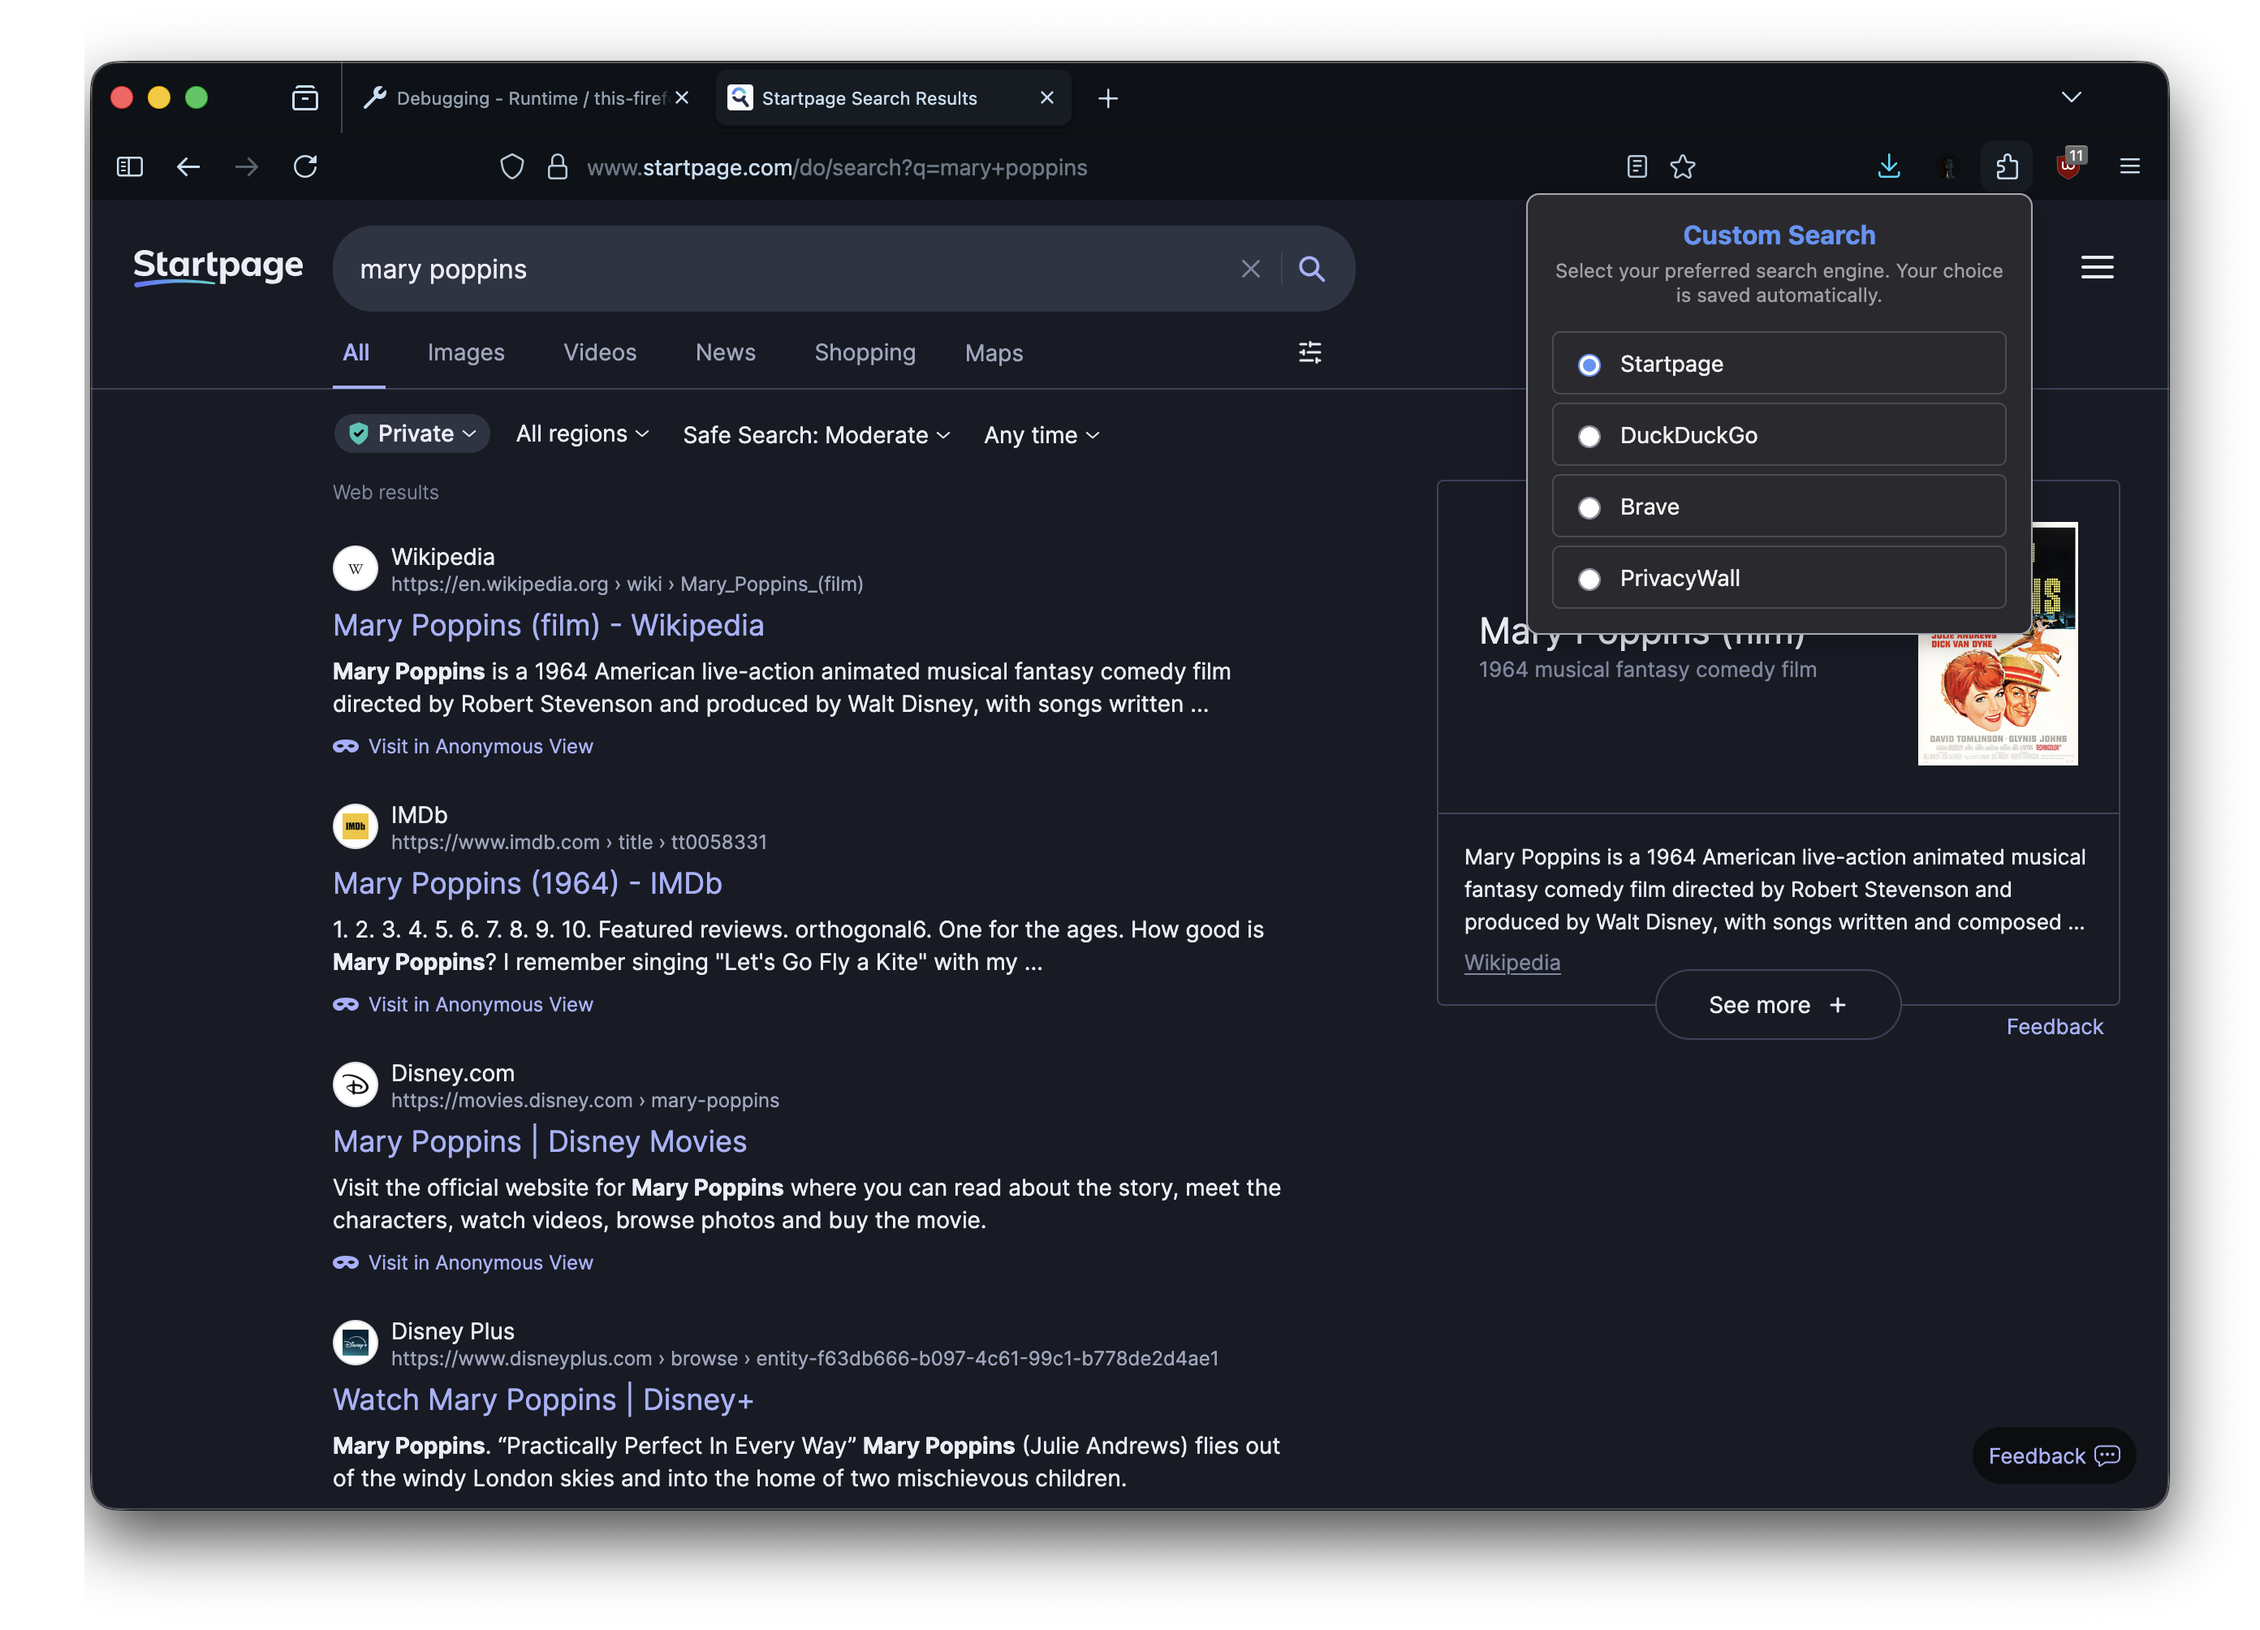
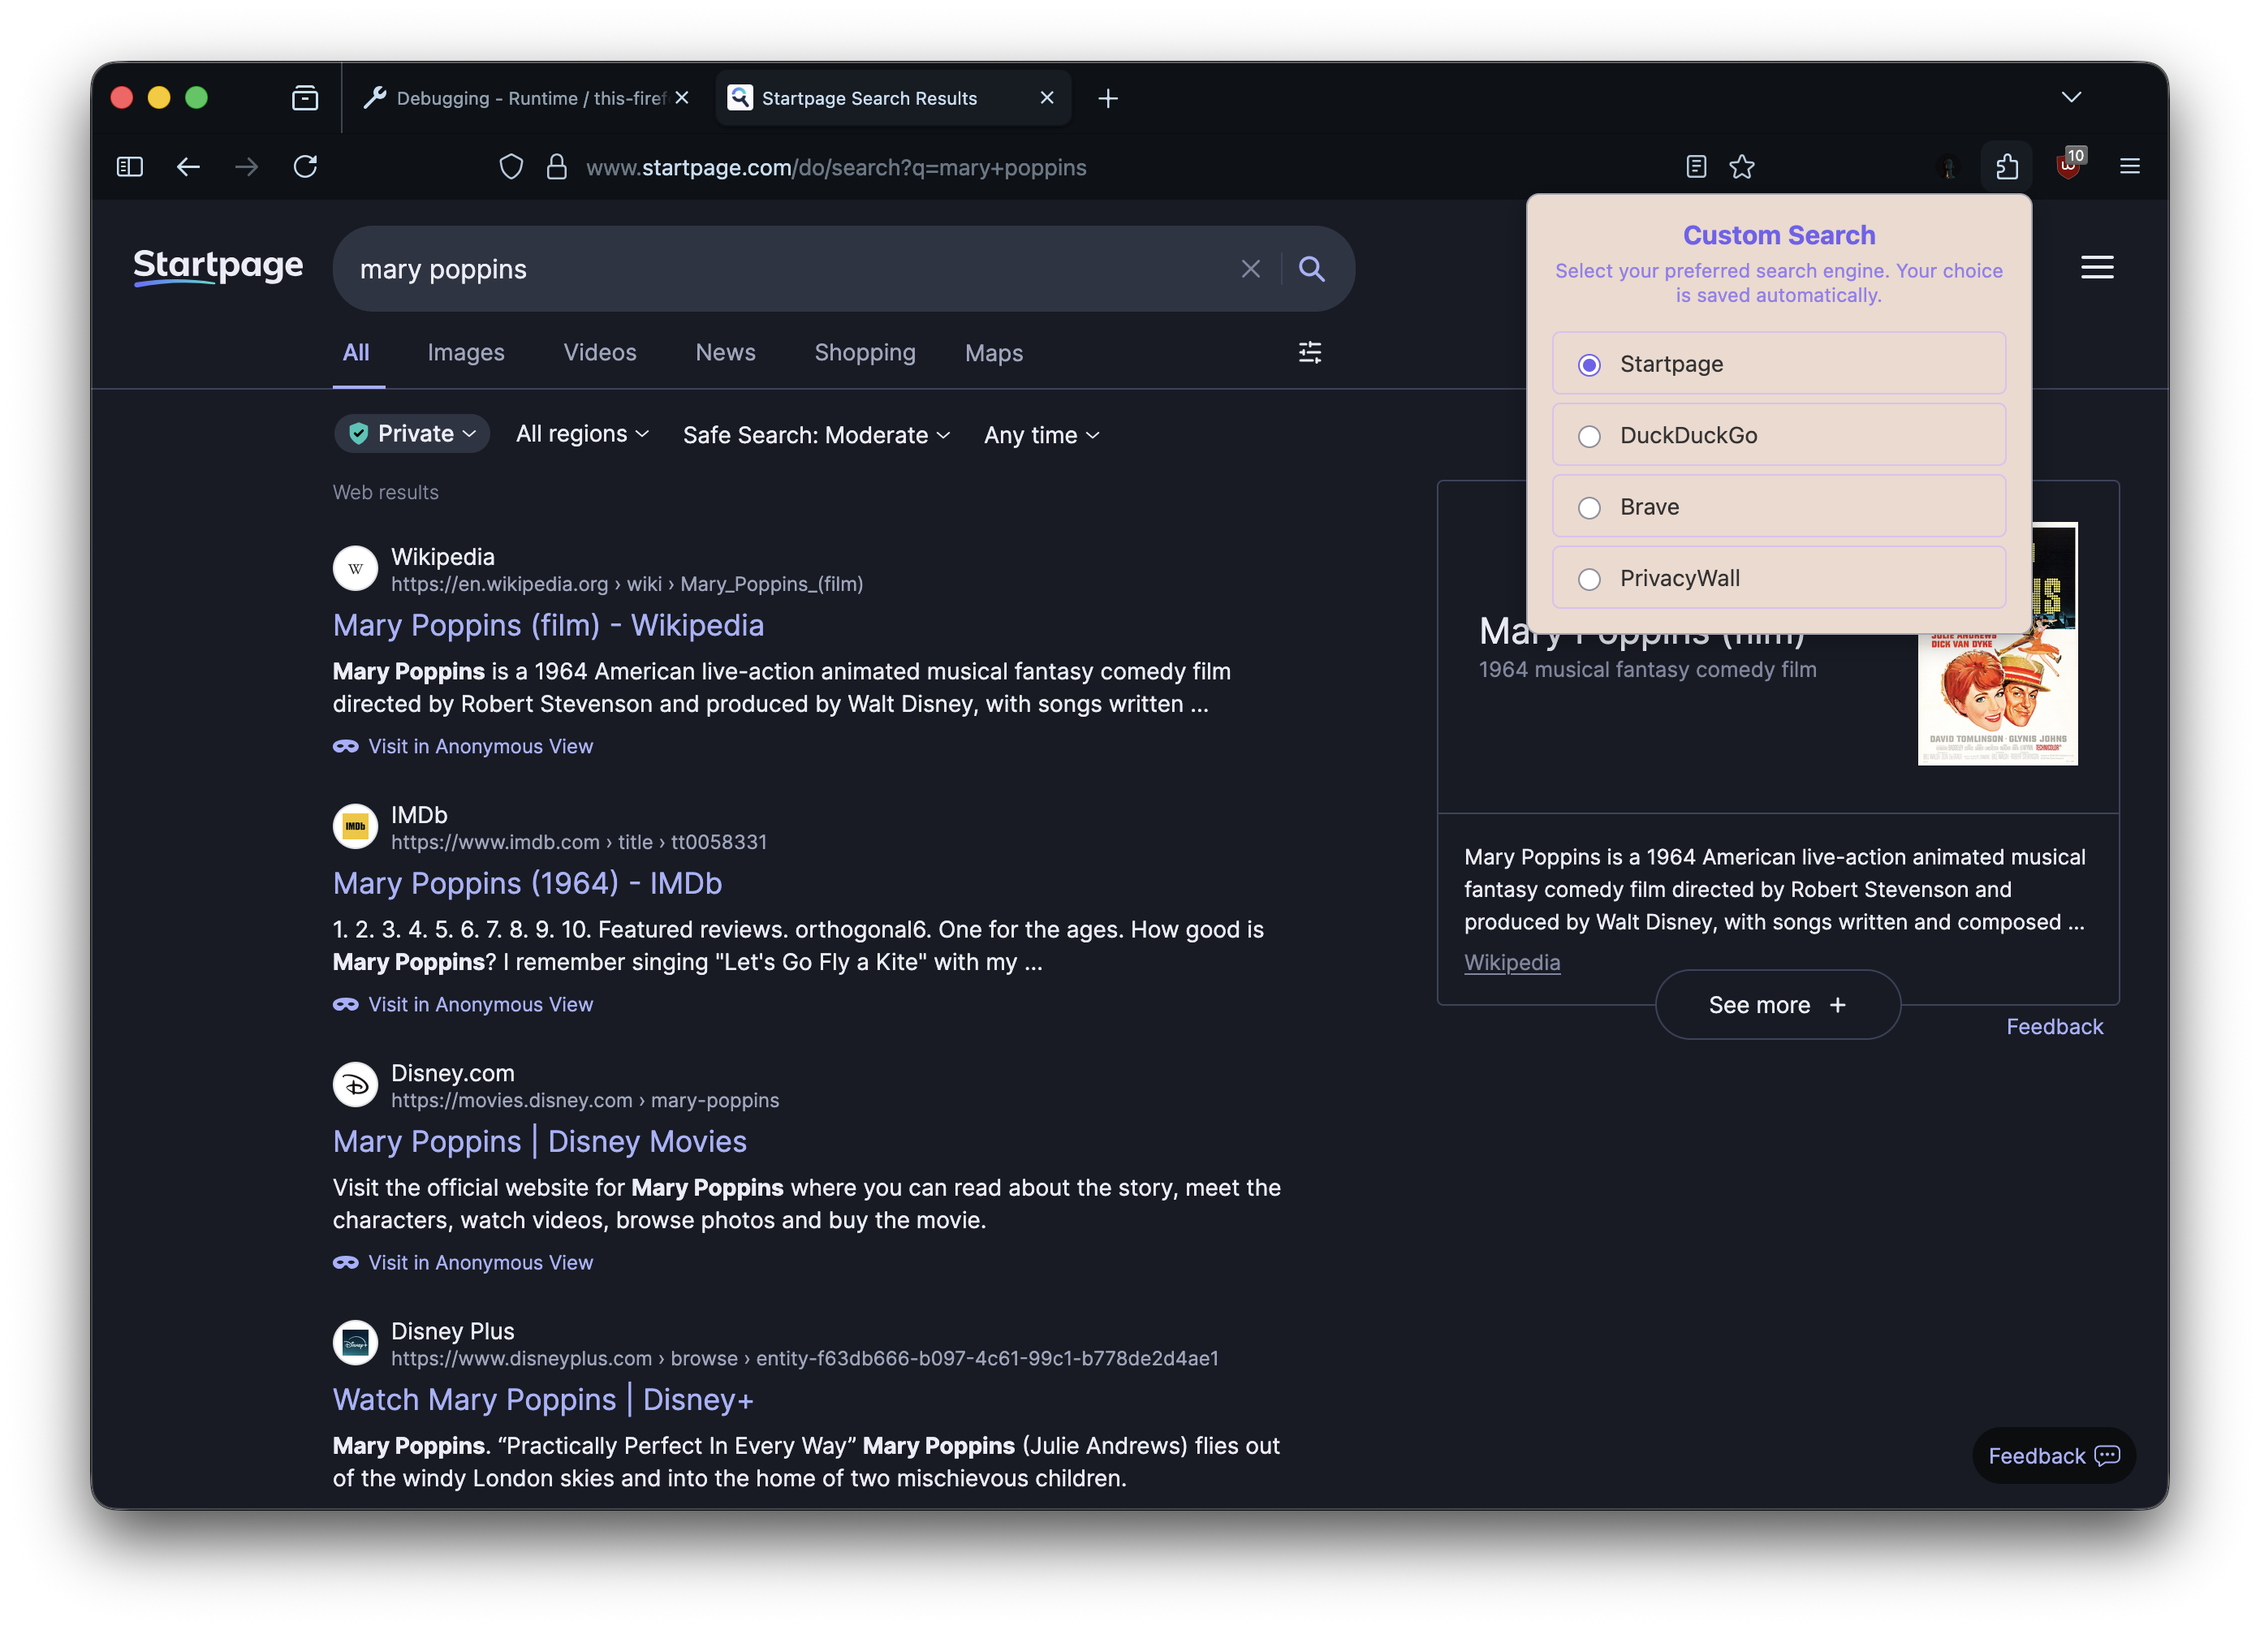
Migrate to manifest version 3 and update dashboard styles

Changed region(s): [[0.6562, 0.0926, 0.9062, 0.4014], [0.0, 0.0618, 0.0625, 0.9572]]

diff --git a/firefox-extension/popup/dashboard.css b/firefox-extension/popup/dashboard.css
@@ -1,9 +1,9 @@
 :root {
-    --bg-color: #2a2a2e;
-    --fg-color: #f2f2f2;
-    --primary-color: #5a94f7;
-    --border-color: #4a4a50;
-    --hover-bg-color: #3a3a40;
+    --bg-color: #efd9ce;
+    --fg-color: #333333;
+    --primary-color: #7161ef;
+    --border-color: #dec0f1;
+    --hover-bg-color: #dec0f1;
 }
 
 body {
@@ -30,7 +30,7 @@ body {
 .header p {
     margin: 0;
     font-size: 12px;
-    color: #a0a0a5;
+    color: #957fef;
 }
 
 .engine-list {
